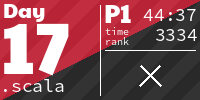
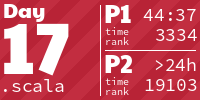
Day 17 2024 part 2

diff --git a/README.md b/README.md
@@ -3,7 +3,7 @@ Scala solutions for [Advent of Code](http://adventofcode.com/). My rust solution
 
 <!-- AOC TILES BEGIN -->
 <h1 align="center">
-  2024 - 37 ⭐
+  2024 - 38 ⭐
 </h1>
 <a href="src/main/scala/adventofcode/y2024/Day1.scala">
   <img src="AoCTiles/media/2024/01.png" width="161px">
